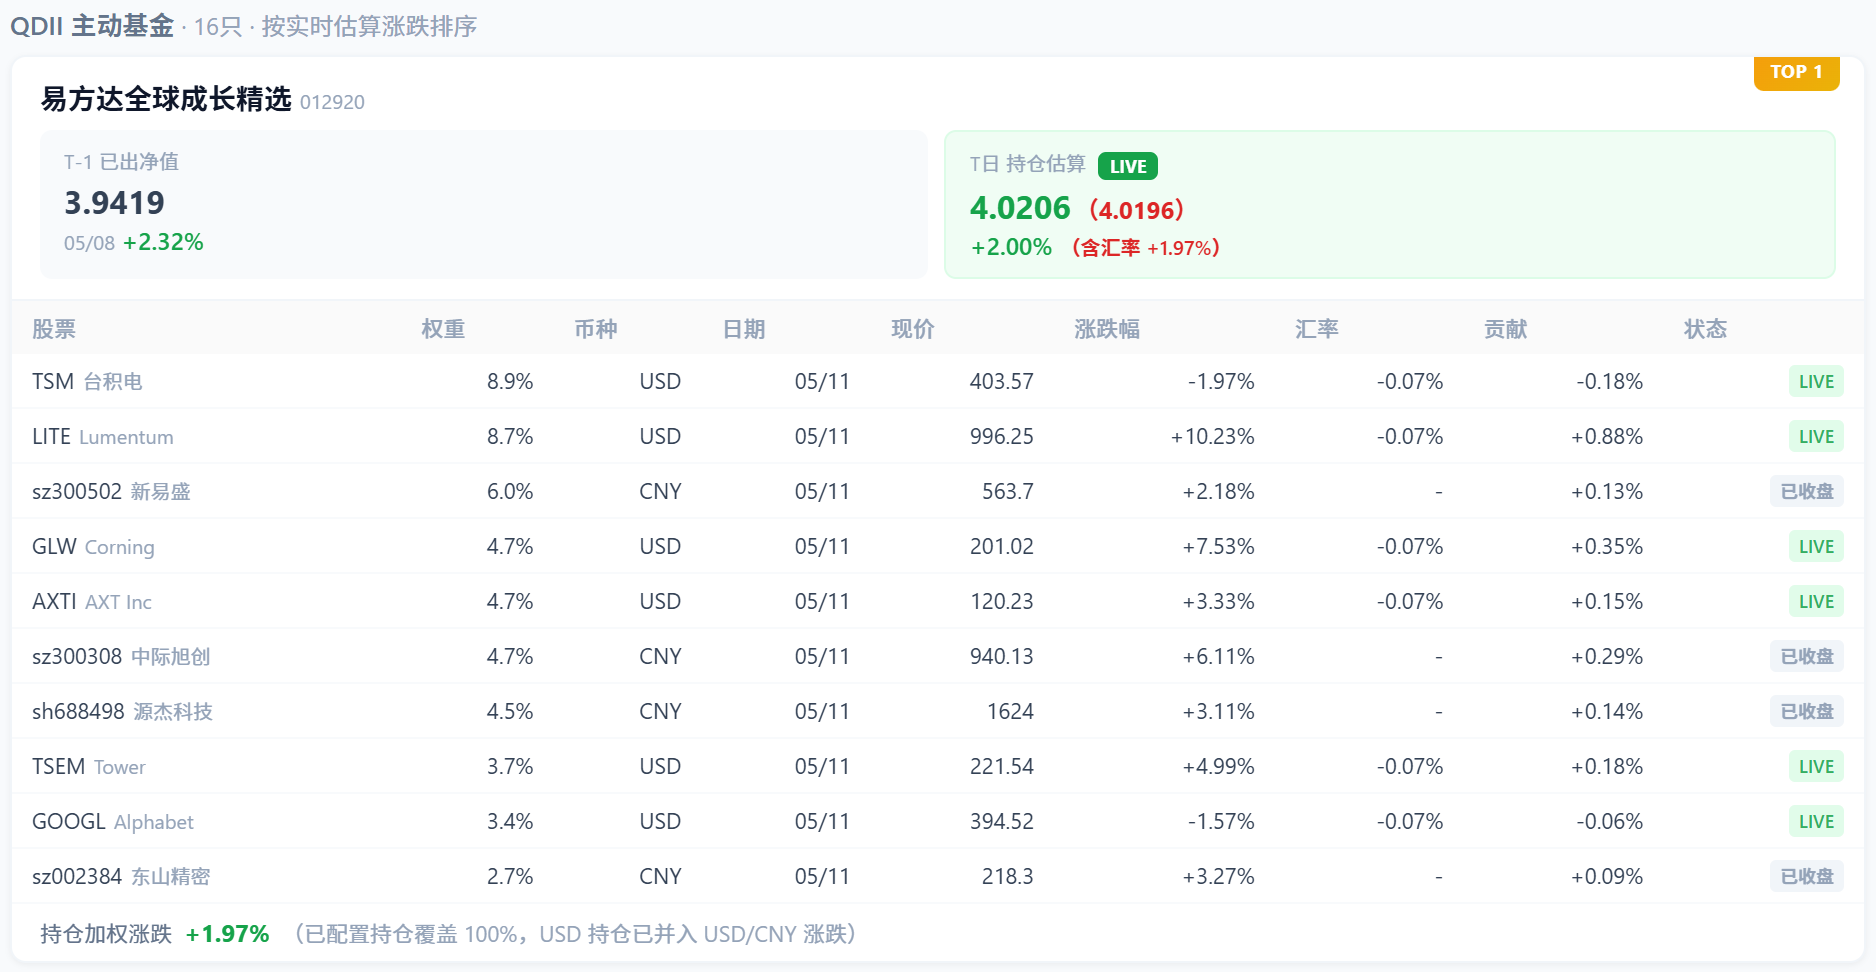
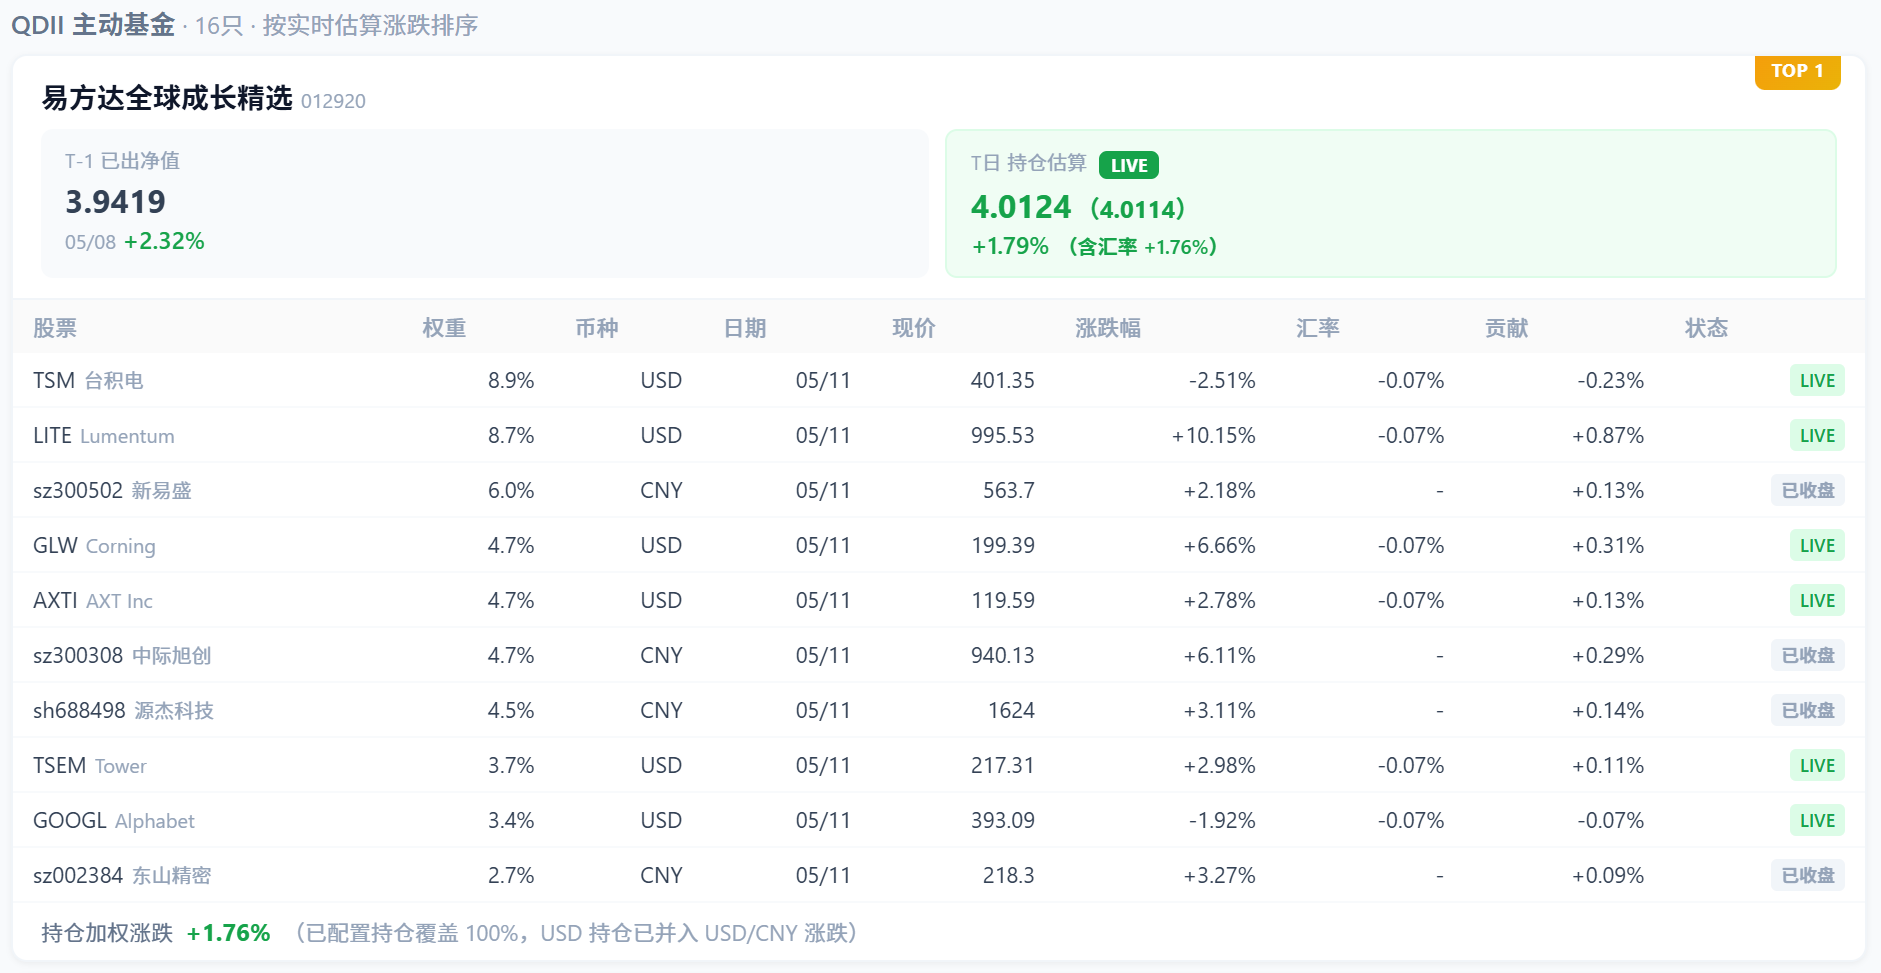
fix: align FX estimate color with result direction

diff --git a/src/components/FundCard.tsx b/src/components/FundCard.tsx
@@ -61,7 +61,6 @@ export default function FundCard({ fund, estimate, rank, loading }: Props) {
   } = estimate;
   const up = computedChange >= 0;
   const localUp = computedChangeLocal >= 0;
-  const mixedUp = computedChange >= computedChangeLocal;
   const estBoxCls = up ? styles.estimateBox : styles.estimateBoxDown;
   const hasLiveHolding = fund.holdings.some((h) => getMarketState(h.sinaSymbol) === 'live');
   const fresh = lastUpdated != null && Date.now() - lastUpdated < 90_000;
@@ -107,7 +106,7 @@ export default function FundCard({ fund, estimate, rank, loading }: Props) {
             <div className={`${styles.navBoxValue} ${up ? styles.up : styles.down}`}>
               {estimatedNAVLocal !== null ? estimatedNAVLocal.toFixed(4) : '--'}
               {estimatedNAV !== null && (
-                <span className={`${styles.fxNavValue} ${mixedUp ? styles.up : styles.down}`}>
+                <span className={`${styles.fxNavValue} ${up ? styles.up : styles.down}`}>
                   （{estimatedNAV.toFixed(4)}）
                 </span>
               )}
@@ -117,7 +116,7 @@ export default function FundCard({ fund, estimate, rank, loading }: Props) {
                 ? `${localUp ? '+' : ''}${computedChangeLocal.toFixed(2)}%`
                 : '数据不足'}
               {estimatedNAV !== null && (
-                <span className={`${styles.fxChange} ${mixedUp ? styles.up : styles.down}`}>
+                <span className={`${styles.fxChange} ${up ? styles.up : styles.down}`}>
                   （含汇率 {up ? '+' : ''}{computedChange.toFixed(2)}%）
                 </span>
               )}
